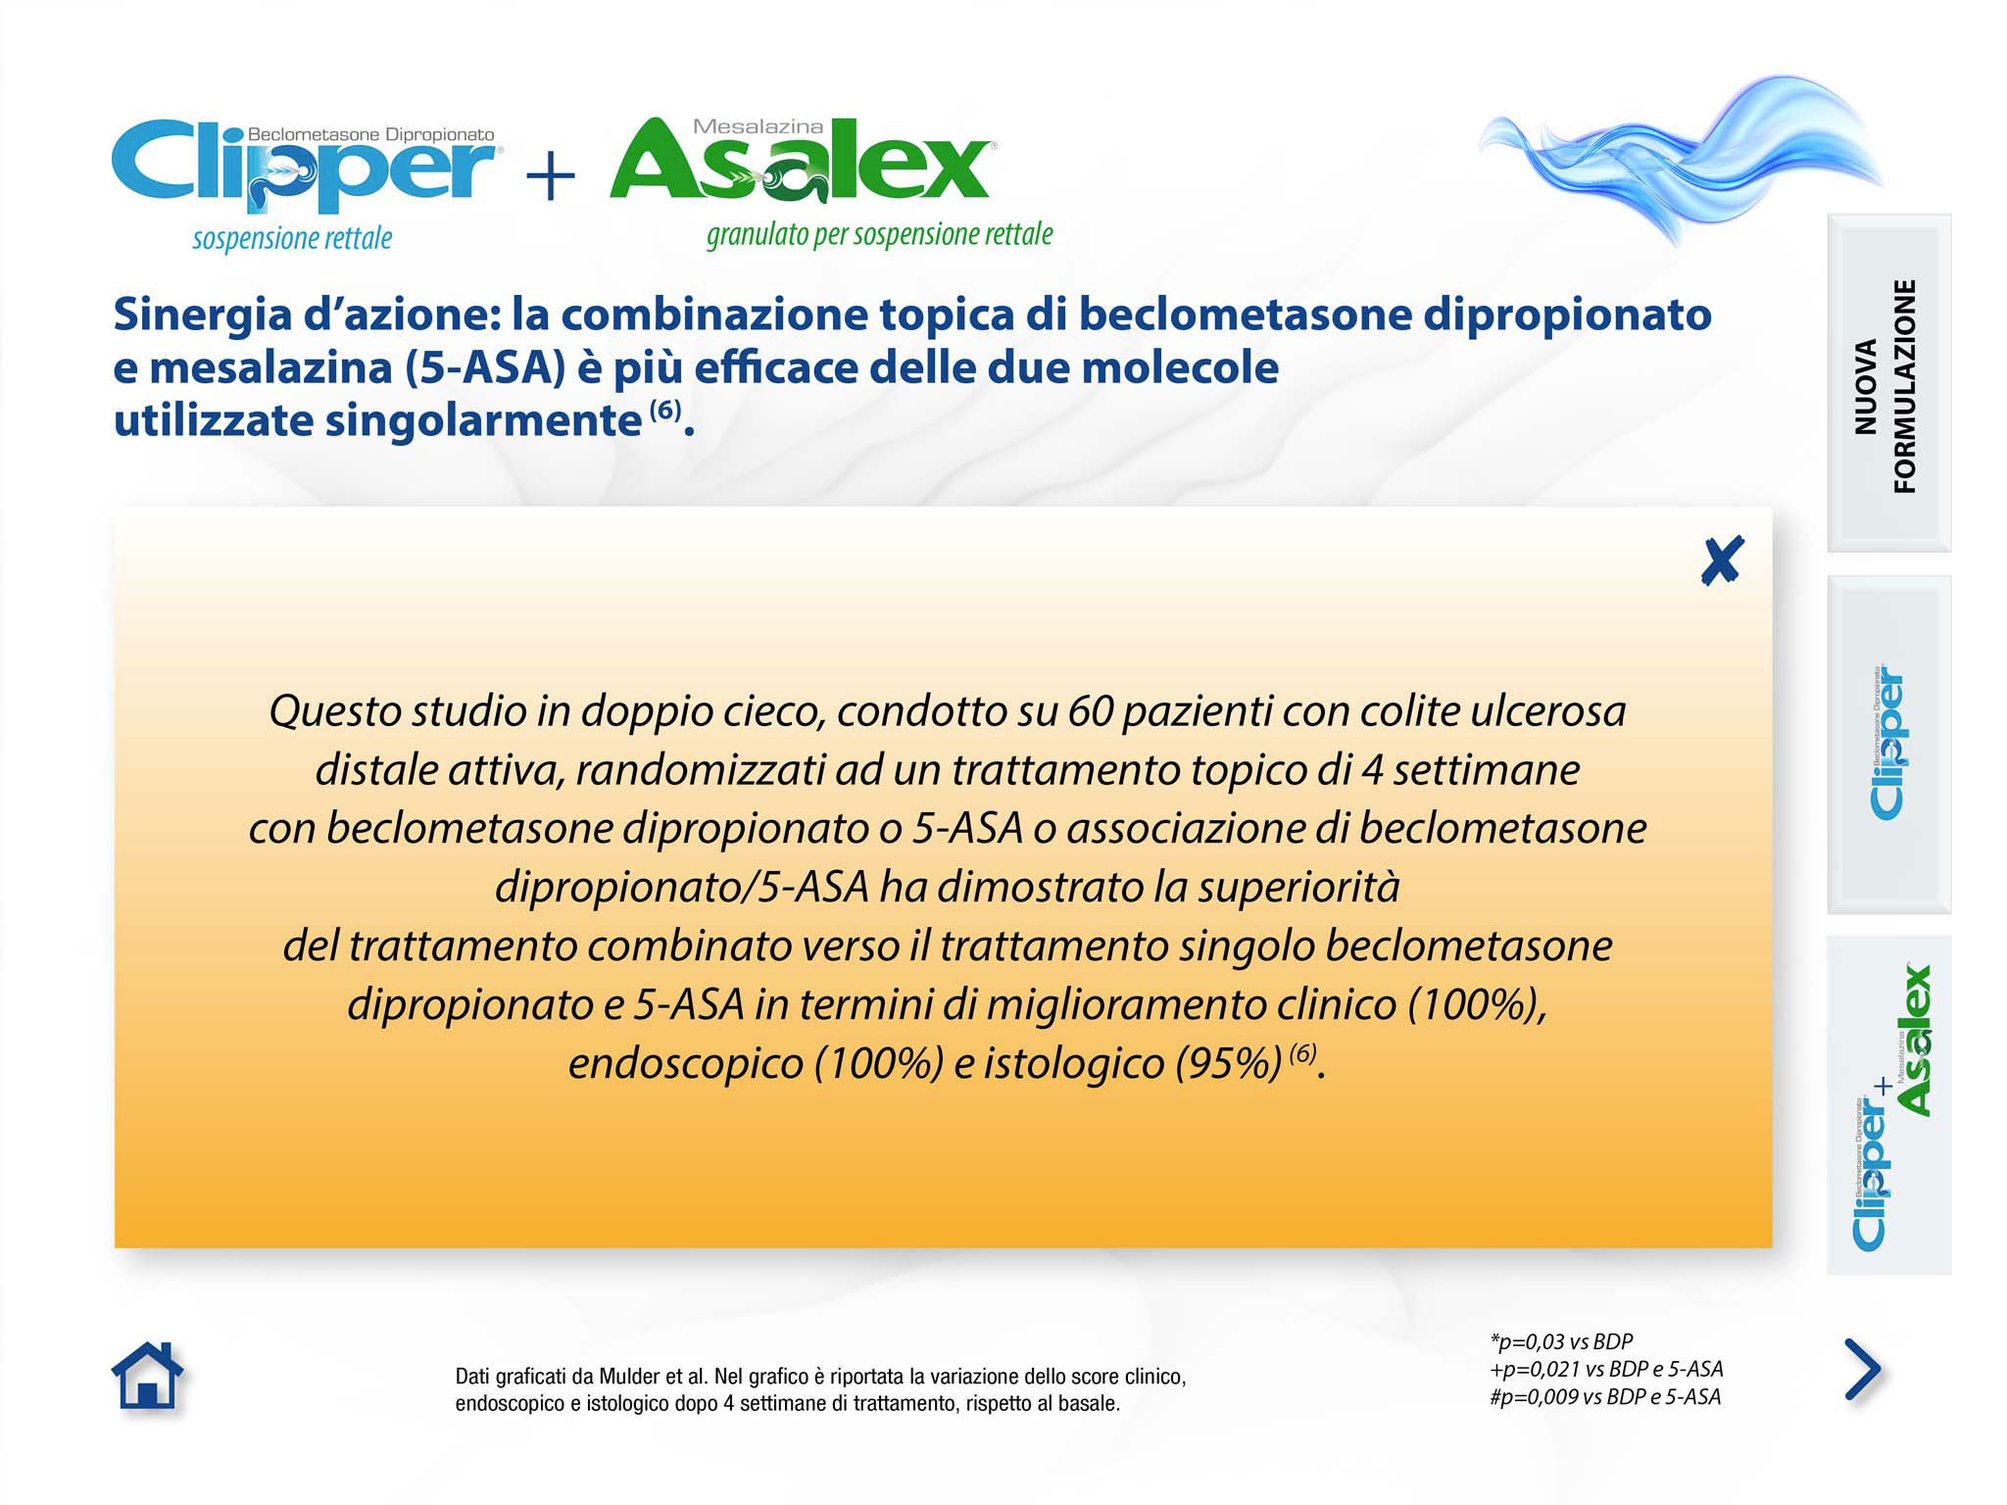
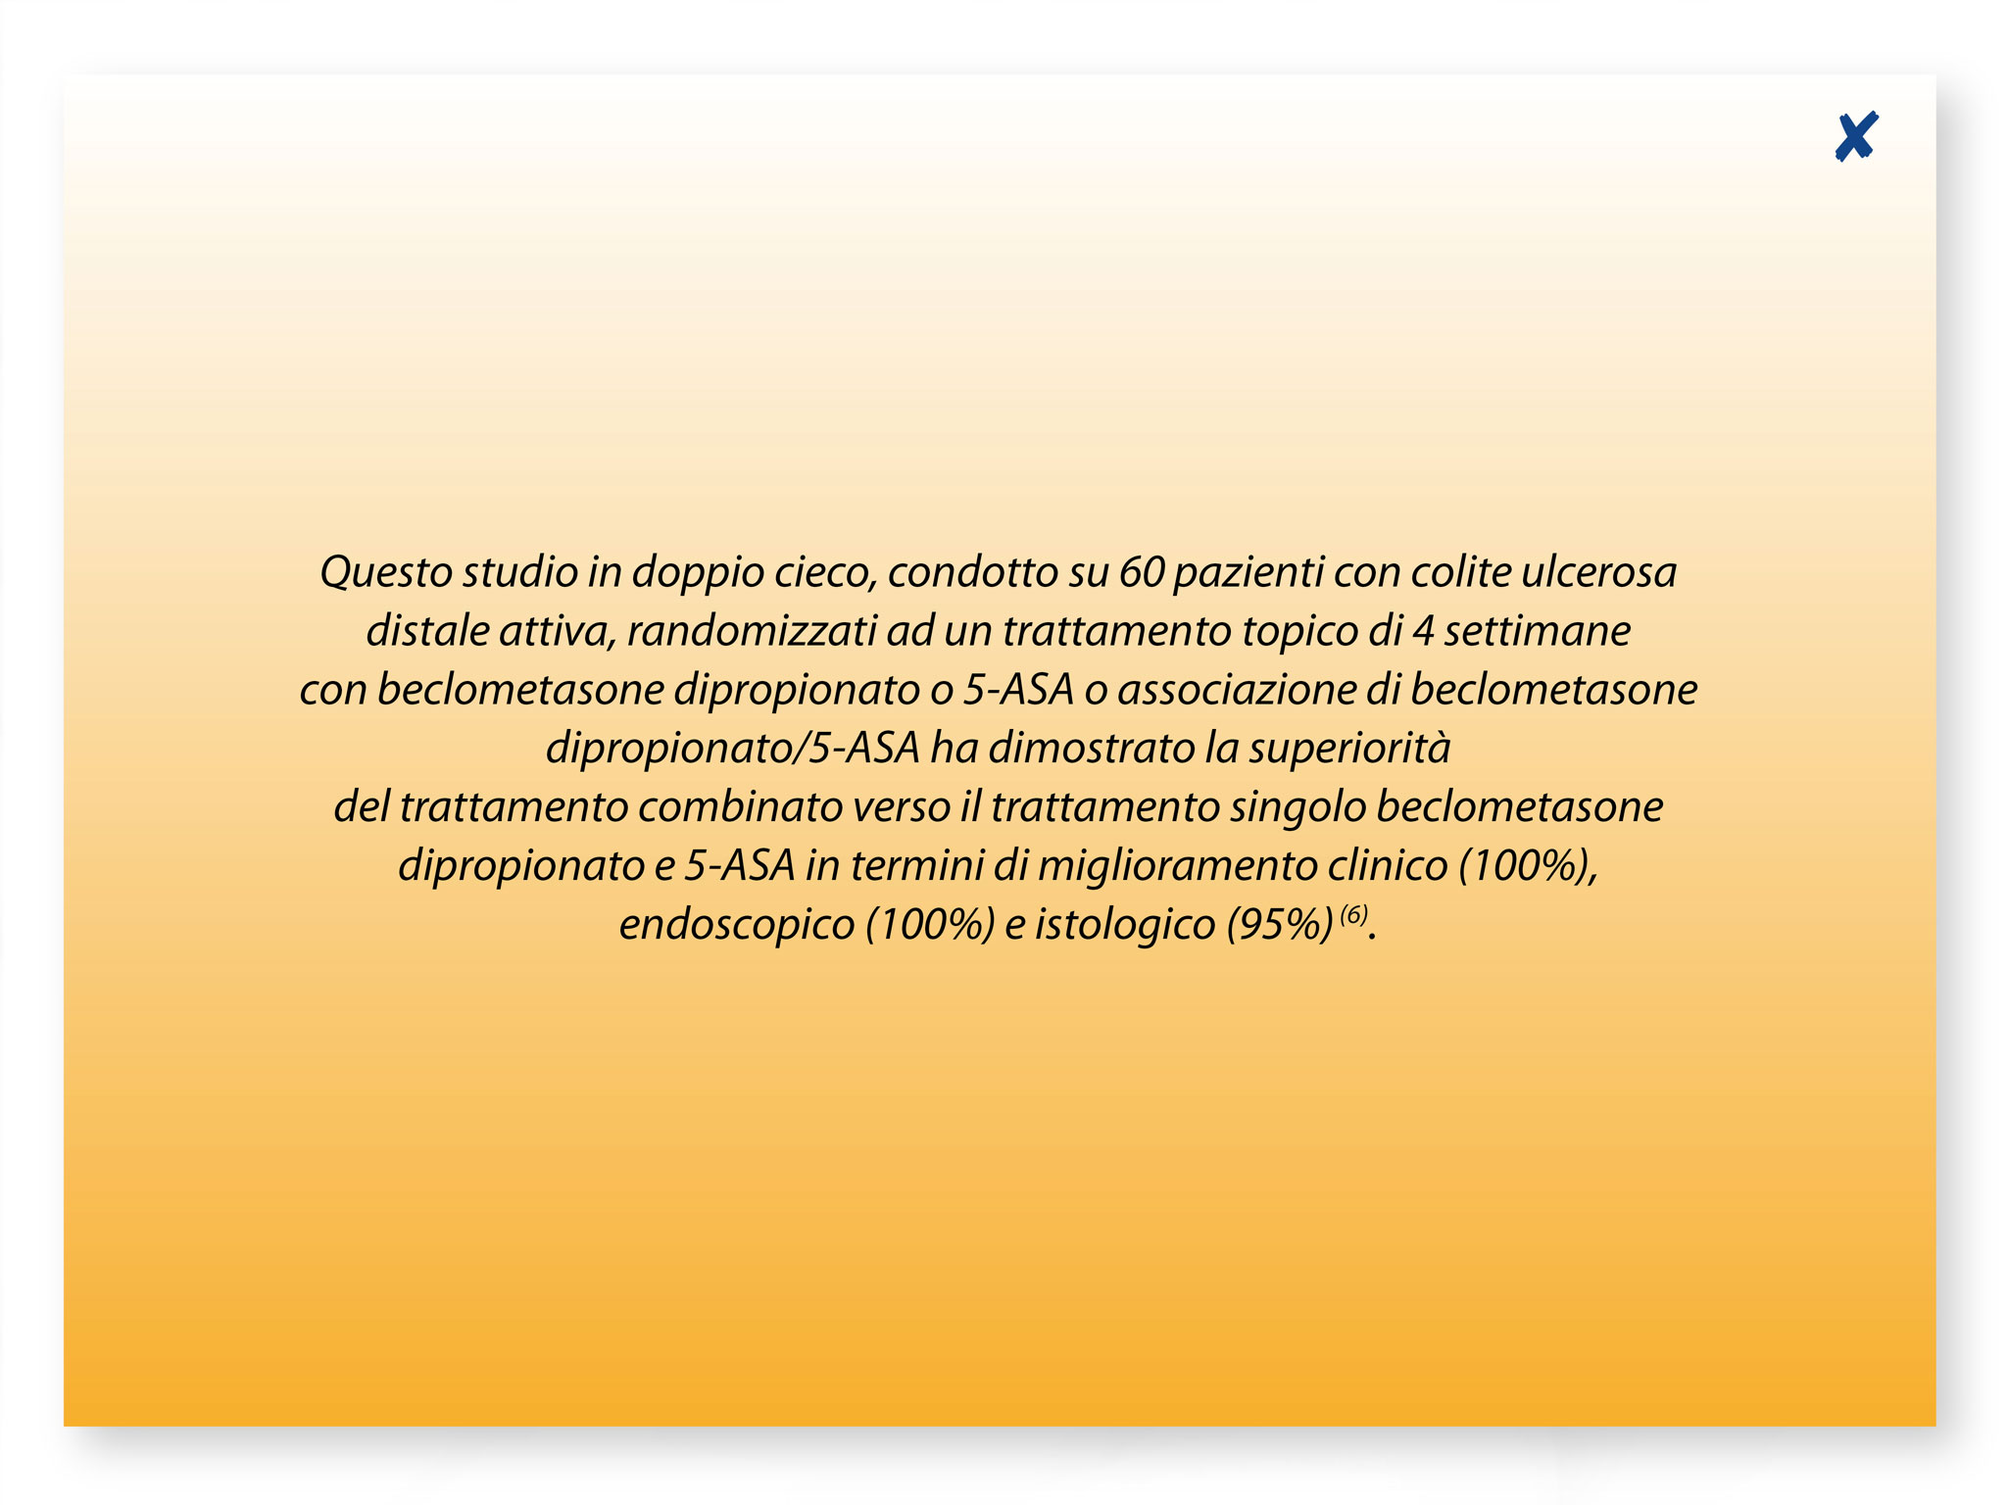
Fix images

diff --git a/templates/visual-13.html b/templates/visual-13.html
@@ -1,9 +1,11 @@
 
 <ion-content ng-cloak  ng-controller="v13Ctrl" style="position:absolute;" scroll="false">
-	<ion-slide-box on-slide-changed="slideHasChanged($index)" active-slide="activeSlide">
+
+	<ion-slide-box on-slide-changed="slideHasChanged($index)" active-slide="activeSlide" show-pager="false">
 		<ion-slide>
+		
 			<div ca-contentcontainer  id="content-container" style="" scroll="false">
-				<img ca-visual id="visual"  src="./img/Visual-13{{imageSuffix}}.jpg" />
+				<img ca-visual id="visual"  ng-src="./img/Visual-13{{imageSuffix}}.jpg" />
 				<div id="btn-container" ca-btncontainer>
 					<button ca-homebtn ca-button id="homebtn" class="btn home-btn" ng-click="switchPage('/visual-1')" style="width:120px;height:120px;left:96px;top:1328px;"></button>
 					<button ca-btn1 ca-button id="btn1" class="btn" ng-click="goSlide(1)" style="width:134px;height:366px;left:1854px;top:210px;"></button>
@@ -15,7 +17,7 @@
 		</ion-slide>
 		<ion-slide>
 			<div ca-contentcontainer  id="content-container" style="" scroll="false">
-				<img ca-visual id="visual"  src="./img/Visual-14{{imageSuffix}}.jpg" />
+				<img ca-visual id="visual"  ng-src="./img/Visual-14{{imageSuffix}}.jpg" />
 				<div id="btn-container" ca-btncontainer>
 					<button ca-homebtn ca-button id="homebtn" class="btn home-btn" ng-click="switchPage('/visual-1')" style="width:120px;height:120px;left:96px;top:1328px;"></button>
 						<button ca-btn1 ca-button id="btn1" class="btn" ng-click="goSlide(1)" style="width:134px;height:366px;left:1854px;top:210px;"></button>
@@ -28,7 +30,7 @@
 		</ion-slide>
 		<ion-slide>
 			<div ca-contentcontainer  id="content-container" style="" scroll="false">
-				<img ca-visual id="visual"  src="./img/Visual-15{{imageSuffix}}.jpg" />
+				<img ca-visual id="visual"  ng-src="./img/Visual-15{{imageSuffix}}.jpg" />
 				<div id="btn-container" ca-btncontainer>
 					<button ca-btn1 ca-button id="btn1" class="btn menu-btn" ng-click="switchPage('/visual-16-popup')" style="width:150px;height:150px;left:1510px;top:464px;"></button>
 						<button ca-btn1 ca-button id="btn1" class="btn" ng-click="goSlide(1)" style="width:134px;height:366px;left:1854px;top:210px;"></button>
@@ -38,12 +40,12 @@
 					<button ca-returnbtn ca-button id="returnbtn" class="btn return-btn" ng-click="goSlide(0)" style="width:120px;height:120px;top:1326px;left:220px;"></button>
 					<button ca-btn3 ca-button id="btn3" class="btn" ng-click="switchPage('/visual-19')"  style="width:316px;height:119px;left:1634px;top:1342px;"></button>
 				</div>
-			</div>iv>
+			</div>
 			</div>
 		</ion-slide>
 		<ion-slide>
 			<div ca-contentcontainer  id="content-container" style="" scroll="false">
-				<img ca-visual id="visual"  src="./img/Visual-17{{imageSuffix}}.jpg" />
+				<img ca-visual id="visual"  ng-src="./img/Visual-17{{imageSuffix}}.jpg" />
 				<div id="btn-container" ca-btncontainer>
 					<button ca-btn1 ca-button id="btn1" class="btn menu-btn" ng-click="switchPage('/visual-18-popup')" style="width:150px;height:150px;left:1590px;top:494px;"></button>
 						<button ca-btn1 ca-button id="btn1" class="btn" ng-click="goSlide(1)" style="width:134px;height:366px;left:1854px;top:210px;"></button>

diff --git a/js/controllers.js b/js/controllers.js
@@ -1,19 +1,70 @@
-angular.module('starter.controllers', [])
+angular
+        .module('starter.controllers', [])
 
-.controller('v1Ctrl',function ($scope, $rootScope) {
+        .controller('MainCtrl', function ($scope,$rootScope, $state ,  $timeout, $element, $location, $animate, $cordovaSplashscreen /* ,createDialog*/) {
 
-})
+				$rootScope.imageSuffix="@x2";
+	 			if(window.devicePixelRatio===2){$rootScope.retina=true;$rootScope.imageSuffix="@x2";}
+	 			else {$rootScope.retina=false;$rootScope.imageSuffix="@x1";}
+	
+				$rootScope.switchPage = function (path,slide) {
+					if(slide==null)slide=0;
+					$rootScope.activeSlide=slide;
+					$rootScope.template = path.replace(/\//g,'');
+					console.log("path: "+$rootScope.template);
+					$rootScope.isRoot=true;
+					
+					$location.path("/");
+					$location.path(path);
+				};
 
-.controller('v13Ctrl',function ($scope, $rootScope, $ionicSlideBoxDelegate) {
-	console.log("active slide: "+$rootScope.activeSlide);
-	$scope.activeSlide=$rootScope.activeSlide;
-	 $ionicSlideBoxDelegate.update();
-	 $scope.goSlide = function(toSlide) {
-		    $ionicSlideBoxDelegate.slide(toSlide,1);
-	}
-	 $scope.goSlide = function(toSlide) {
-		    
-		 $ionicSlideBoxDelegate.slide(toSlide,1);
-	}
-})
+				$rootScope.changePage = function (path,type) {
+					$rootScope.isRoot=true;
+					$scope.animationClass=type;
+					$location.path(path);
+				};
 
+				$rootScope.historyBack = function(type) {
+					console.log("history back");
+					//resetScore();
+					$scope.animationClass=type;
+					$rootScope.isBack = true;
+					$scope.direction='reverse';
+					window.history.back();
+				};
+				
+				$rootScope.openPDF = function (url) {
+                	console.log("open pdf: "+url)
+	                ref = window
+	                        .open(
+	                                url,
+	                                '_blank', 'location=yes');
+	                ref.addEventListener('exit', function() {
+		                ref.removeEventListener('exit', function() {
+		                });
+		                ref.close();
+	                });
+                }
+			})
+        
+        
+        .controller('v1Ctrl', function($scope, $rootScope) {
+
+        })
+
+        .controller(
+                'v13Ctrl',
+                function($scope, $rootScope, $ionicSlideBoxDelegate) {
+	                console.log("active slide: " + $rootScope.activeSlide);
+	                console.log("suf: " + $rootScope.imageSuffix);
+	                $scope.activeSlide = $rootScope.activeSlide;
+	                $ionicSlideBoxDelegate.update();
+	                $scope.goSlide = function(toSlide) {
+		                $ionicSlideBoxDelegate.slide(toSlide, 1);
+	                }
+	                $scope.goSlide = function(toSlide) {
+		                $ionicSlideBoxDelegate.slide(toSlide, 1);
+	                }
+	                
+
+                })

diff --git a/templates/visual-19.html b/templates/visual-19.html
@@ -1,7 +1,16 @@
 <ion-content ng-cloak  style="position:absolute;" scroll="false">
 	<div ca-contentcontainer  id="content-container" style="" scroll="false">
-					<img ca-visual id="visual"  src="./img/Visual-19{{imageSuffix}}.jpg" />
+					<img ca-visual id="visual"  ng-src="./img/Visual-19{{imageSuffix}}.jpg" />
 					<div id="btn-container" ca-btncontainer>
 						<button ca-homebtn ca-button id="homebtn" class="btn home-btn" ng-click="switchPage('/visual-1')" style="width:120px;height:120px;left:96px;top:1328px;"></button>
+						<button ca-homebtn ca-button id="biblio1btn" class="btn home-btn" ng-click="switchPage('/visual-1')" style="width:1046px;height:120px;left:248px;top:894px;"></button>
+						<button ca-homebtn ca-button id="biblio2btn" class="btn home-btn" ng-click="switchPage('/visual-1')" style="width:858px;height:138px;left:248px;top:1014px;"></button>
+						<button ca-homebtn ca-button id="biblio3btn" class="btn home-btn" ng-click="switchPage('/visual-1')" style="width:677px;height:78px;left:248px;top:1153px;"></button>
+						<button ca-homebtn ca-button id="biblio4btn" class="btn home-btn" ng-click="switchPage('/visual-1')" style="width:677px;height:66px;left:248px;top:1231px;"></button>
+						<button ca-homebtn ca-button id="biblio5btn" class="btn home-btn" ng-click="switchPage('/visual-1')" style="width:677px;height:66px;left:248px;top:1296px;"></button>
+						<button ca-homebtn ca-button id="biblio6btn" class="btn home-btn" ng-click="switchPage('/visual-1')" style="width:677px;height:66px;left:248px;top:1362px;"></button>
+						<button ca-homebtn ca-button id="rcp1btn" class="btn home-btn" ng-click="openPDF('./pdf/rcp/asalex_rcpnew_hd.pdf')" style="width:375px;height:82px;left:1266px;top:1186px;"></button>
+						<button ca-homebtn ca-button id="rcp2btn" class="btn home-btn" ng-click="openPDF('./pdf/rcp/clipper_compr_hd.pdf')" style="width:375px;height:82px;left:1266px;top:1272px;"></button>
+						<button ca-homebtn ca-button id="rcp3btn" class="btn home-btn" ng-click="openPDF('./pdf/rcp/clipper_s.rettale_hd.pdf')" style="width:375px;height:82px;left:1266px;top:1354px;"></button>
 					</div>
 </ion-content>

diff --git a/js/app.js b/js/app.js
@@ -16,6 +16,8 @@ angular.module('starter', ['ionic','starter.directives','starter.controllers', '
 									  StatusBar.styleDefault();
 								  }
 								  
+								 
+								  
 								  });
 	  if (document.images) {
 			img1 = new Image();
@@ -165,41 +167,5 @@ angular.module('starter', ['ionic','starter.directives','starter.controllers', '
 			$urlRouterProvider.otherwise('/');
 		  })
 
-.controller('MainCtrl', function ($scope,$rootScope, $state ,  $timeout, $element, $location, $animate, $cordovaSplashscreen /* ,createDialog*/) {
 
-	
-		
-	
-				$rootScope.switchPage = function (path,slide) {
-					if(slide==null)slide=0;
-					$rootScope.activeSlide=slide;
-					$rootScope.template = path.replace(/\//g,'');
-					console.log("path: "+$rootScope.template);
-					$rootScope.isRoot=true;
-					$rootScope.imageSuffix="@x2";
-					if(window.devicePixelRatio===2){$rootScope.retina=true;$rootScope.imageSuffix="@x2";}
-					else $rootScope.retina=false;
-					$location.path("/");
-					$location.path(path);
-				};
-
-				$rootScope.changePage = function (path,type) {
-					$rootScope.isRoot=true;
-					$scope.animationClass=type;
-					$location.path(path);
-				};
-
-				$rootScope.historyBack = function(type) {
-					console.log("history back");
-					//resetScore();
-					$scope.animationClass=type;
-					$rootScope.isBack = true;
-					$scope.direction='reverse';
-					window.history.back();
-				};
-
-				//$rootScope.templateName=$stateProvider.state['templateUrl'];
-
-
-			});
 

diff --git a/templates/visual-16-popup.html b/templates/visual-16-popup.html
@@ -1,9 +1,8 @@
 <ion-content ng-cloak  style="position:absolute;" scroll="false">
 	<div ca-contentcontainer  id="content-container" style="" >
-		<img ca-visual id="visual"  src="./img/Visual-16-popup{{imageSuffix}}.jpg" />
+		<img ca-visual id="visual"  ng-src="./img/Visual-16-popup{{imageSuffix}}.jpg" />
 		<div id="btn-container" ca-btncontainer>
-			<button ca-closebtn ca-button id="closebtn" class="btn close-btn"  ng-click="switchPage('/visual-13',2)" style="width:110px;height:110px;top:604px;left:1800px;"></button>
-			
+			<button ca-closebtn ca-button id="closebtn" class="btn close-btn"  ng-click="switchPage('/visual-13',2)" style="width:110px;height:110px;top:94px;left:1858px;"></button>
 		</div>
 	</div>
 </ion-content>

diff --git a/templates/visual-18-popup.html b/templates/visual-18-popup.html
@@ -1,9 +1,8 @@
 <ion-content ng-cloak  style="position:absolute;" scroll="false">
 	<div ca-contentcontainer  id="content-container" style="" >
-		<img ca-visual id="visual"  src="./img/Visual-18-popup{{imageSuffix}}.jpg" />
+		<img ca-visual id="visual"  ng-src="./img/Visual-18-popup{{imageSuffix}}.jpg" />
 		<div id="btn-container" ca-btncontainer>
-			<button ca-closebtn ca-button id="closebtn" class="btn close-btn"  ng-click="switchPage('/visual-13',3)" style="width:110px;height:110px;top:544px;left:1800px;"></button>
-
+			<button ca-closebtn ca-button id="closebtn" class="btn close-btn"  ng-click="switchPage('/visual-13',3)" style="width:110px;height:110px;top:94px;left:1858px;"></button>
 		</div>
 	</div>
 </ion-content>

diff --git a/templates/visual-2.html b/templates/visual-2.html
@@ -1,6 +1,6 @@
 <ion-content ng-cloak style="position:absolute;" class="white" scroll="false">
 			<div ca-contentcontainer  id="content-container" style="" >
-				<img ca-visual id="visual"  src="./img/Visual-2{{imageSuffix}}.jpg" />
+				<img ca-visual id="visual"  ng-src="./img/Visual-2{{imageSuffix}}.jpg" />
 				<div id="btn-container" ca-btncontainer>
 					<button ca-btn1 ca-button id="btn1" class="btn" ng-click="switchPage('/visual-3-popup1')"  style="width:830px;height:140px;left:610px;top:700px;"></button>
 					<button ca-btn2 ca-button id="btn2" class="btn" ng-click="switchPage('/visual-4-popup2')"  style="width:830px;height:140px;left:610px;top:934px;"></button>

diff --git a/templates/visual-7.html b/templates/visual-7.html
@@ -1,6 +1,6 @@
 <ion-content ng-cloak  style="position:absolute;" scroll="false">
 	<div ca-contentcontainer  id="content-container" style="" >
-		<img ca-visual id="visual"  src="./img/Visual-7{{imageSuffix}}.jpg" />
+		<img ca-visual id="visual"  ng-src="./img/Visual-7{{imageSuffix}}.jpg" />
 		<div id="btn-container" ca-btncontainer>
 			<button ca-homebtn ca-button id="homebtn" class="btn home-btn" ng-click="switchPage('/visual-1')" style="width:120px;height:120px;left:96px;top:1328px;"></button>
 			<button ca-returnbtn ca-button id="returnbtn" class="btn return-btn" ng-click="switchPage('/visual-5')" style="width:180px;height:120px;top:1326px;left:220px;"></button>

diff --git a/templates/visual-8.html b/templates/visual-8.html
@@ -1,6 +1,6 @@
 <ion-content ng-cloak  style="position:absolute;" scroll="false">
 	<div ca-contentcontainer  id="content-container" style="" >
-		<img ca-visual id="visual"  src="./img/Visual-8{{imageSuffix}}.jpg" />
+		<img ca-visual id="visual"  ng-src="./img/Visual-8{{imageSuffix}}.jpg" />
 		<div id="btn-container" ca-btncontainer>
 			<button ca-homebtn ca-button id="homebtn" class="btn home-btn" ng-click="switchPage('/visual-1')" style="width:120px;height:120px;left:96px;top:1328px;"></button>
 			<button ca-returnbtn ca-button id="returnbtn" class="btn return-btn" ng-click="switchPage('/visual-5')" style="width:180px;height:120px;top:1326px;left:220px;"></button>

diff --git a/templates/visual-12.html b/templates/visual-12.html
@@ -1,6 +1,6 @@
 <ion-content ng-cloak  style="position:absolute;" scroll="false">
 	<div ca-contentcontainer  id="content-container" style="" >
-		<img ca-visual id="visual"  src="./img/Visual-12{{imageSuffix}}.jpg" />
+		<img ca-visual id="visual"  ng-src="./img/Visual-12{{imageSuffix}}.jpg" />
 		<div id="btn-container" ca-btncontainer>
 			<button ca-btn1 ca-button id="btn1" class="btn menu-btn" ng-click="switchPage('/visual-10-popup')" style="width:177px;height:93px;left:1620px;top:600px;"></button>
 			<button ca-btn2 ca-button id="btn2" class="btn menu-btn" ng-click="switchPage('/visual-11')" style="width:420px;height:128px;left:406px;top:796px;"></button>

diff --git a/templates/visual-9.html b/templates/visual-9.html
@@ -1,6 +1,6 @@
 <ion-content ng-cloak  style="position:absolute;" scroll="false">
 	<div ca-contentcontainer  id="content-container" style="" >
-		<img ca-visual id="visual"  src="./img/Visual-9{{imageSuffix}}.jpg" />
+		<img ca-visual id="visual"  ng-src="./img/Visual-9{{imageSuffix}}.jpg" />
 		<div id="btn-container" ca-btncontainer>
 			<button ca-btn1 ca-button id="btn1" class="btn menu-btn" ng-click="switchPage('/visual-10-popup')" style="width:177px;height:93px;left:1620px;top:600px;"></button>
 			<button ca-btn2 ca-button id="btn2" class="btn menu-btn" ng-click="switchPage('/visual-11')" style="width:420px;height:128px;left:406px;top:796px;"></button>

diff --git a/templates/visual-5.html b/templates/visual-5.html
@@ -1,6 +1,6 @@
 <ion-content ng-cloak  style="position:absolute;" scroll="false">
 	<div ca-contentcontainer  id="content-container" style="" >
-		<img ca-visual id="visual"  src="./img/Visual-5{{imageSuffix}}.jpg" />
+		<img ca-visual id="visual"  ng-src="./img/Visual-5{{imageSuffix}}.jpg" />
 		<div id="btn-container" ca-btncontainer>
 			<button ca-btn1 ca-button id="btn1" class="btn menu-btn" ng-click="switchPage('/visual-6-popup')" style="width:562px;height:136px;left:514px;top:582px;"></button>
 			<button ca-btn2 ca-button id="btn2" class="btn menu-btn" ng-click="switchPage('/visual-7')" style="width:562px;height:136px;left:220px;top:750px;"></button>
